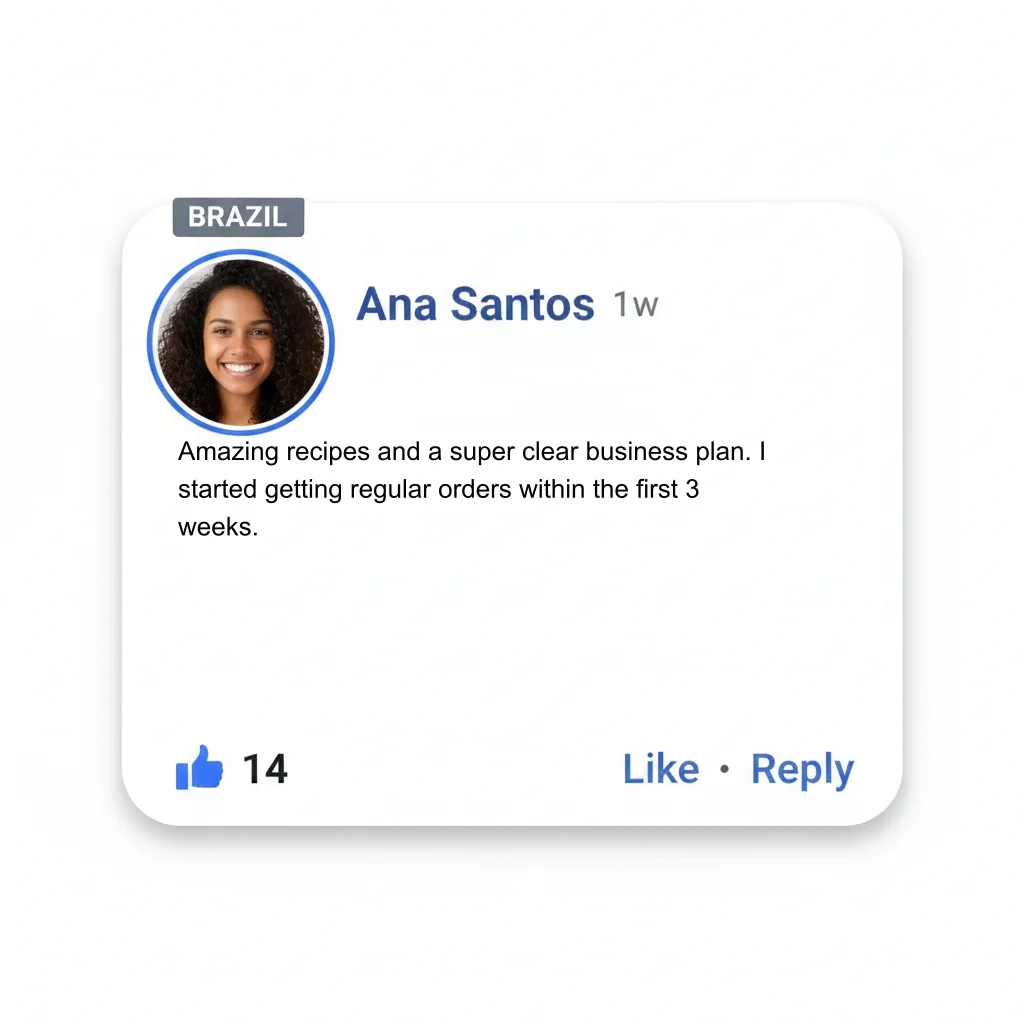
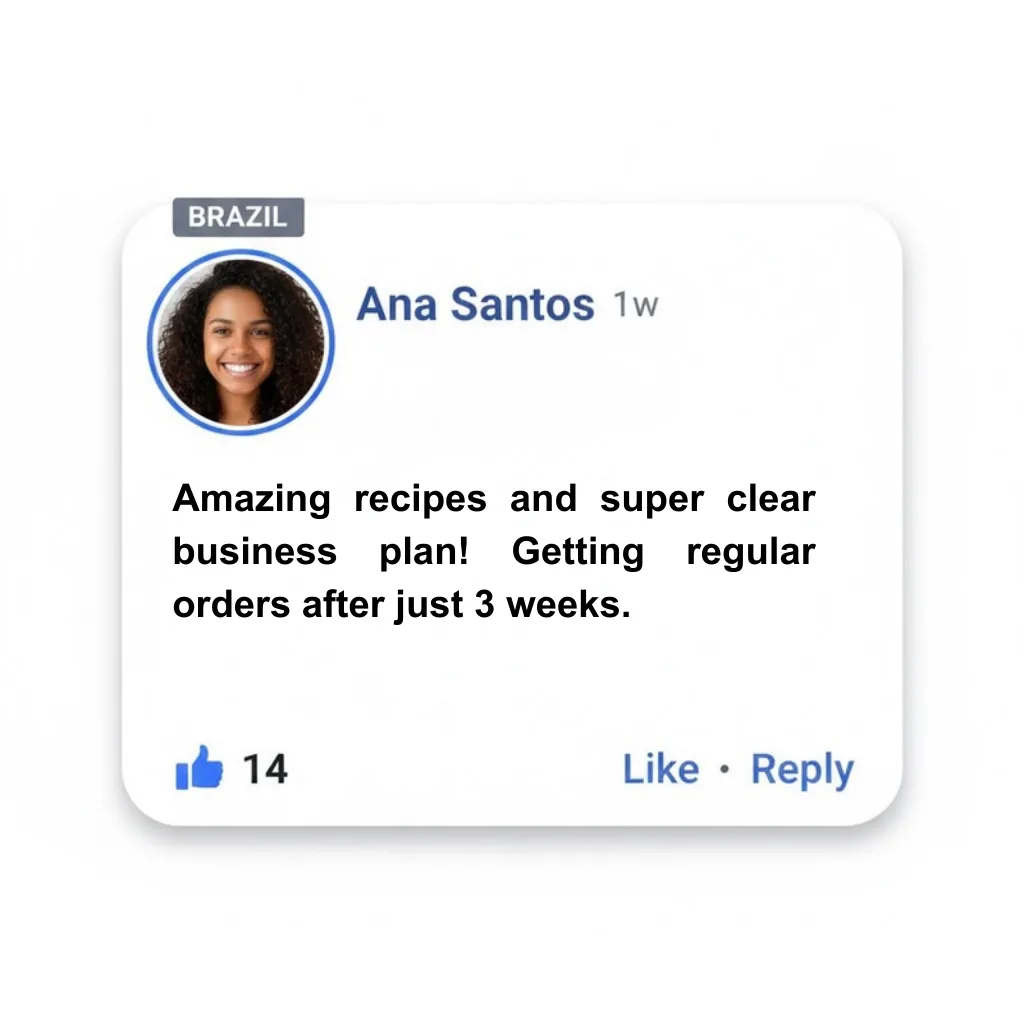
Add translated Canva FB testimonial cards + animated sideways carousel
- 72 Canva-designed FB comment cards (9 people x 8 languages) exported as WebP
- Replaced grid layout with infinite horizontal marquee carousel
- Pause on hover, fade edges, responsive card widths
- Updated title: "Look What Other Cookie Business Owners are Saying"
- Updated subtitle: "Women like you who started baking and never looked back"

diff --git a/src/components/TestimonialsSection.tsx b/src/components/TestimonialsSection.tsx
@@ -29,11 +29,14 @@ const TestimonialsSection = () => {
     []
   );
 
-  const title = safe("testimonialsTitle", "Reviews (translated)");
+  const title = safe("testimonialsTitle", "Look What Other Cookie Business Owners are Saying");
   const subtitle = safe(
     "testimonialsSubtitle",
-    "Real buyers sharing their results—translated for clarity"
+    "Women like you who started baking and never looked back"
   );
+
+  // Duplicate array for seamless infinite loop
+  const doubled = [...testimonials, ...testimonials];
 
   return (
     <section className="py-20 bg-card fade-in-section" id="testimonials">
@@ -42,21 +45,34 @@ const TestimonialsSection = () => {
           <h2 className="section-title">{title}</h2>
           <p className="section-subtitle">{subtitle}</p>
         </div>
+      </div>
 
-        <div className="grid md:grid-cols-2 lg:grid-cols-3 gap-6 max-w-6xl mx-auto">
-          {testimonials.map((item, index) => (
+      {/* Full-width carousel overflow container */}
+      <div className="relative overflow-hidden">
+        {/* Fade edges */}
+        <div className="pointer-events-none absolute inset-y-0 left-0 z-10 w-16 bg-gradient-to-r from-card to-transparent" />
+        <div className="pointer-events-none absolute inset-y-0 right-0 z-10 w-16 bg-gradient-to-l from-card to-transparent" />
+
+        {/* Scrolling track */}
+        <div
+          className="flex gap-6 animate-marquee hover:[animation-play-state:paused]"
+          style={{
+            width: "max-content",
+          }}
+        >
+          {doubled.map((item, index) => (
             <div
               key={`${item.name}-${index}`}
-              className="animate-fade-in group"
+              className="flex-shrink-0 w-[280px] sm:w-[320px] md:w-[360px]"
             >
               <img
                 src={`/testimonials/${language}/${item.file}`}
                 alt={item.name}
                 width={1024}
                 height={1024}
-                loading="lazy"
+                loading={index < 9 ? "eager" : "lazy"}
                 decoding="async"
-                className="w-full h-auto rounded-2xl drop-shadow-md transition-transform duration-300 group-hover:scale-[1.02]"
+                className="w-full h-auto rounded-2xl drop-shadow-md transition-transform duration-300 hover:scale-[1.03]"
               />
             </div>
           ))}

diff --git a/src/contexts/LanguageContext.tsx b/src/contexts/LanguageContext.tsx
@@ -161,7 +161,7 @@ const translations = {
     deviceCompatibility: "Compatible con movil, tableta y PC",
     
     // Testimonials
-    testimonialsTitle: "Reseñas de Alumnas de Varios Paises (traducidas)",
+    testimonialsTitle: "Mira Lo Que Dicen Otras Emprendedoras de Galletas",
     testimonialsSubtitle: "Mujeres como tu que empezaron a hornear y no pararon",
     testimonial1: "Hice mi primera venta en solo 3 dias! Las recetas son claras y el plan de ventas me dio la confianza que necesitaba. Ya tengo clientas que repiten.",
     testimonial2: "Nunca pense que podria vender mis galletas. Ahora recibo pedidos cada fin de semana y mis hijos estan orgullosos de su mama emprendedora.",
@@ -419,7 +419,7 @@ const translations = {
     deviceCompatibility: "Works on phone, tablet, and PC",
 
     // Testimonials
-    testimonialsTitle: "Student Reviews from Multiple Countries (translated)",
+    testimonialsTitle: "Look What Other Cookie Business Owners are Saying",
     testimonialsSubtitle: "Women like you who started baking and never looked back",
     testimonial1: "I made my first sale in just 3 days! The recipes are clear, and the sales plan gave me the confidence I needed. I am already getting repeat orders.",
     testimonial2: "I never thought I could sell my cookies. Now I get orders every weekend and my kids are proud of their entrepreneur mom.",
@@ -677,7 +677,7 @@ const translations = {
     deviceCompatibility: "Compativel com celular, tablet e PC",
 
     // Testimonials
-    testimonialsTitle: "Avaliacoes de Alunas de Varios Paises (traduzidas)",
+    testimonialsTitle: "Veja o Que Outras Empreendedoras de Cookies Estao Dizendo",
     testimonialsSubtitle: "Mulheres como voce que comecaram a assar e nao pararam mais",
     testimonial1: "Fiz minha primeira venda em apenas 3 dias! As receitas sao claras e o plano de vendas me deu a confianca que eu precisava. Ja tenho clientes que repetem.",
     testimonial2: "Nunca pensei que conseguiria vender meus cookies. Agora recebo pedidos todo fim de semana e meus filhos estao orgulhosos da mamae empreendedora.",

diff --git a/tailwind.config.ts b/tailwind.config.ts
@@ -108,6 +108,10 @@ export default {
           "0%, 100%": { transform: "translateY(0)" },
           "50%": { transform: "translateY(-5px)" },
         },
+        marquee: {
+          "0%": { transform: "translateX(0)" },
+          "100%": { transform: "translateX(-50%)" },
+        },
       },
       animation: {
         "accordion-down": "accordion-down 0.2s ease-out",
@@ -117,6 +121,7 @@ export default {
         "scale-in": "scale-in 0.4s ease-out forwards",
         "slide-up": "slide-up 0.8s ease-out forwards",
         "bounce-gentle": "bounce-gentle 2s ease-in-out infinite",
+        marquee: "marquee 40s linear infinite",
       },
     },
   },
